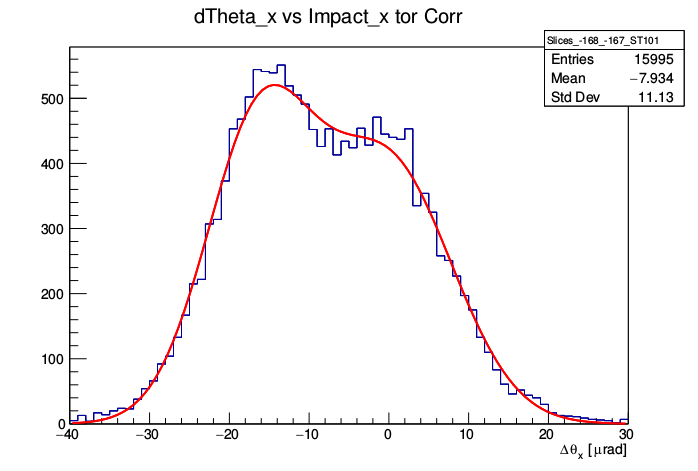
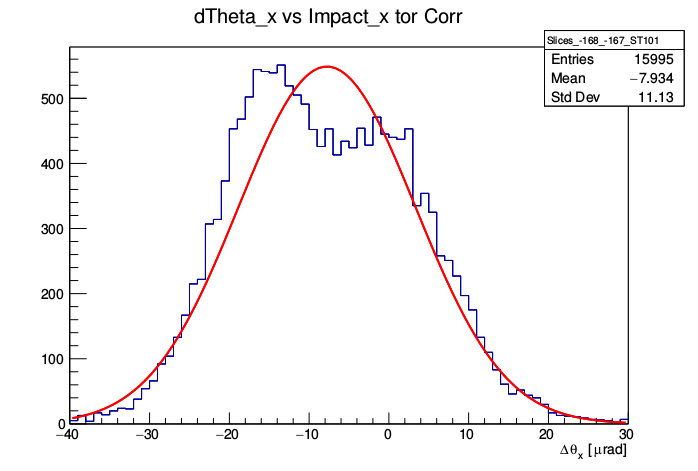
Made a working gaussian mixtures fit!

diff --git a/script/test_fit.py b/script/test_fit.py
@@ -4,25 +4,50 @@ import matplotlib.pyplot as plt
 import matplotlib.mlab
 import numpy as np
 from pylab import *
+import random
 
 import pprint
 pp = pprint.PrettyPrinter(indent=4)
 
+
 data = np.loadtxt('ForFrancesco/ST101_exp/txt_data/Slices_-170_-169_ST101.txt')
+#data = np.loadtxt('ForFrancesco/ST101_exp/txt_data/Slices_-186_-185_ST101.txt')
+#data = np.loadtxt('ForFrancesco/ST101_exp/txt_data/Slices_-170_-169_ST101.txt')
+
 x = data[:, 0]
 y = data[:, 1]
 
-print(data)
+distribution = []
+# Create (deterministic) samples from the histogram
+for i in range(len(y)):
+    posizione_col = x[i] 
+    altezza_col = y[i]
+    for j in range(int(np.round(altezza_col) ) ):
+        distribution.append(x[i])
+        
+#pp.pprint(distribution)
+nd_distribution = np.array(distribution)
 
-clf = mixture.GaussianMixture(n_components=2, covariance_type='full',verbose=2,verbose_interval=2)
-clf.fit(y.reshape(-1, 1))
+yn = y / np.sum(y)
+print("yn.sum(): ", yn.sum())
+
+
+
+clf = mixture.GaussianMixture(n_components=2, covariance_type='full',verbose=2,verbose_interval=2,
+#                              means_init=[[-17],[0]], weights_init=[1 / 2, 1 / 2], 
+#                              random_state=random.SystemRandom().randrange(0,4095),
+                              init_params="kmeans", 
+                              tol=1e-5 )
+clf.fit(nd_distribution.reshape(-1, 1))
+
+
 # "Unflattened" variables
 r_m1, r_m2 = clf.means_
 w1, w2 = clf.weights_
 r_c1, r_c2 = clf.covariances_
-pp.pprint(clf.means_)
-pp.pprint(clf.weights_)
-pp.pprint(clf.covariances_)
+print("means_: ", clf.means_)
+print("weights_: ", clf.weights_)
+print("covariances_: ", clf.covariances_)
 
 
 print("First peak: ", r_m1[0], "Second peak:", r_m2[0])
@@ -31,7 +56,7 @@ print("c1: ", r_c1[0][0], "c2:", r_c2[0][0])
 
 # Flatten variables
 # m1, m2 = r_m1[0], r_m2[0]
-# m1, m2 = r_c1[0][0], r_c2[0][0]
+# c1,  c2 = r_c1[0][0], r_c2[0][0]
 
 # TODO perche se le flatto non funziona?
 m1, m2 = r_m1, r_m2
@@ -40,11 +65,17 @@ c1, c2 = r_c1, r_c2
 
 #fig = plt.figure(figsize = (5, 5))
 #plt.subplot(111)
+# gauss_test = 0.5*matplotlib.mlab.normpdf(x, -20, 8)
 gauss1 = w1*matplotlib.mlab.normpdf(x,m1,np.sqrt(c1))[0]
 gauss2 = w2*matplotlib.mlab.normpdf(x,m2,np.sqrt(c2))[0]
-plt.plot(range(0,len(x)),y,"-.",label = "Data", color='r')
-plt.plot(range(0,len(x)),gauss1,label = "Gauss1", color='g')
-plt.plot(range(0,len(x)),gauss2,label = "Gauss2", color='b')
+gauss_tot = gauss1 + gauss2
+
+
+plt.plot(x,yn,"-.",label = "Data", color='b')
+plt.plot(x,gauss1,label = "Gauss1", color='g')
+plt.plot(x,gauss2,label = "Gauss2", color='g')
+plt.plot(x,gauss_tot,label = "Gauss_tot", color="r")
+
 plt.legend()
 plt.show()
 #fig.savefig('gaussian_fit.pdf')

diff --git a/src/analisi_VRtoAM2_chi2.C b/src/analisi_VRtoAM2_chi2.C
@@ -279,6 +279,7 @@ void analisi_VRtoAM_chi2(std::string nome_cristallo, std::string exp_or_sim, int
 			// This is the VR or AM one, starting
 			fVRAM->SetParameter( 0, hTRANS->GetMaximum() / 2.0 );
 			fVRAM->SetParameter( 1, meanVR  );
+//			fVRAM->SetParLimits( 1, meanVR - 4, meanVR + 4  );
 			fVRAM->SetParameter( 2, expectedsigma);
 
 			if (nfound == 2) {
@@ -286,6 +287,7 @@ void analisi_VRtoAM_chi2(std::string nome_cristallo, std::string exp_or_sim, int
 				// on the right (bigger X coordinate, near zero)
 				fVRAM->SetParameter( 3, hTRANS->GetMaximum() / 2.0 );
 				fVRAM->SetParameter( 4, meanAM );
+//				fVRAM->SetParLimits( 4, meanAM - 4, meanAM + 4  );
 				fVRAM->SetParameter( 5, expectedsigma);
 			}
 		}
